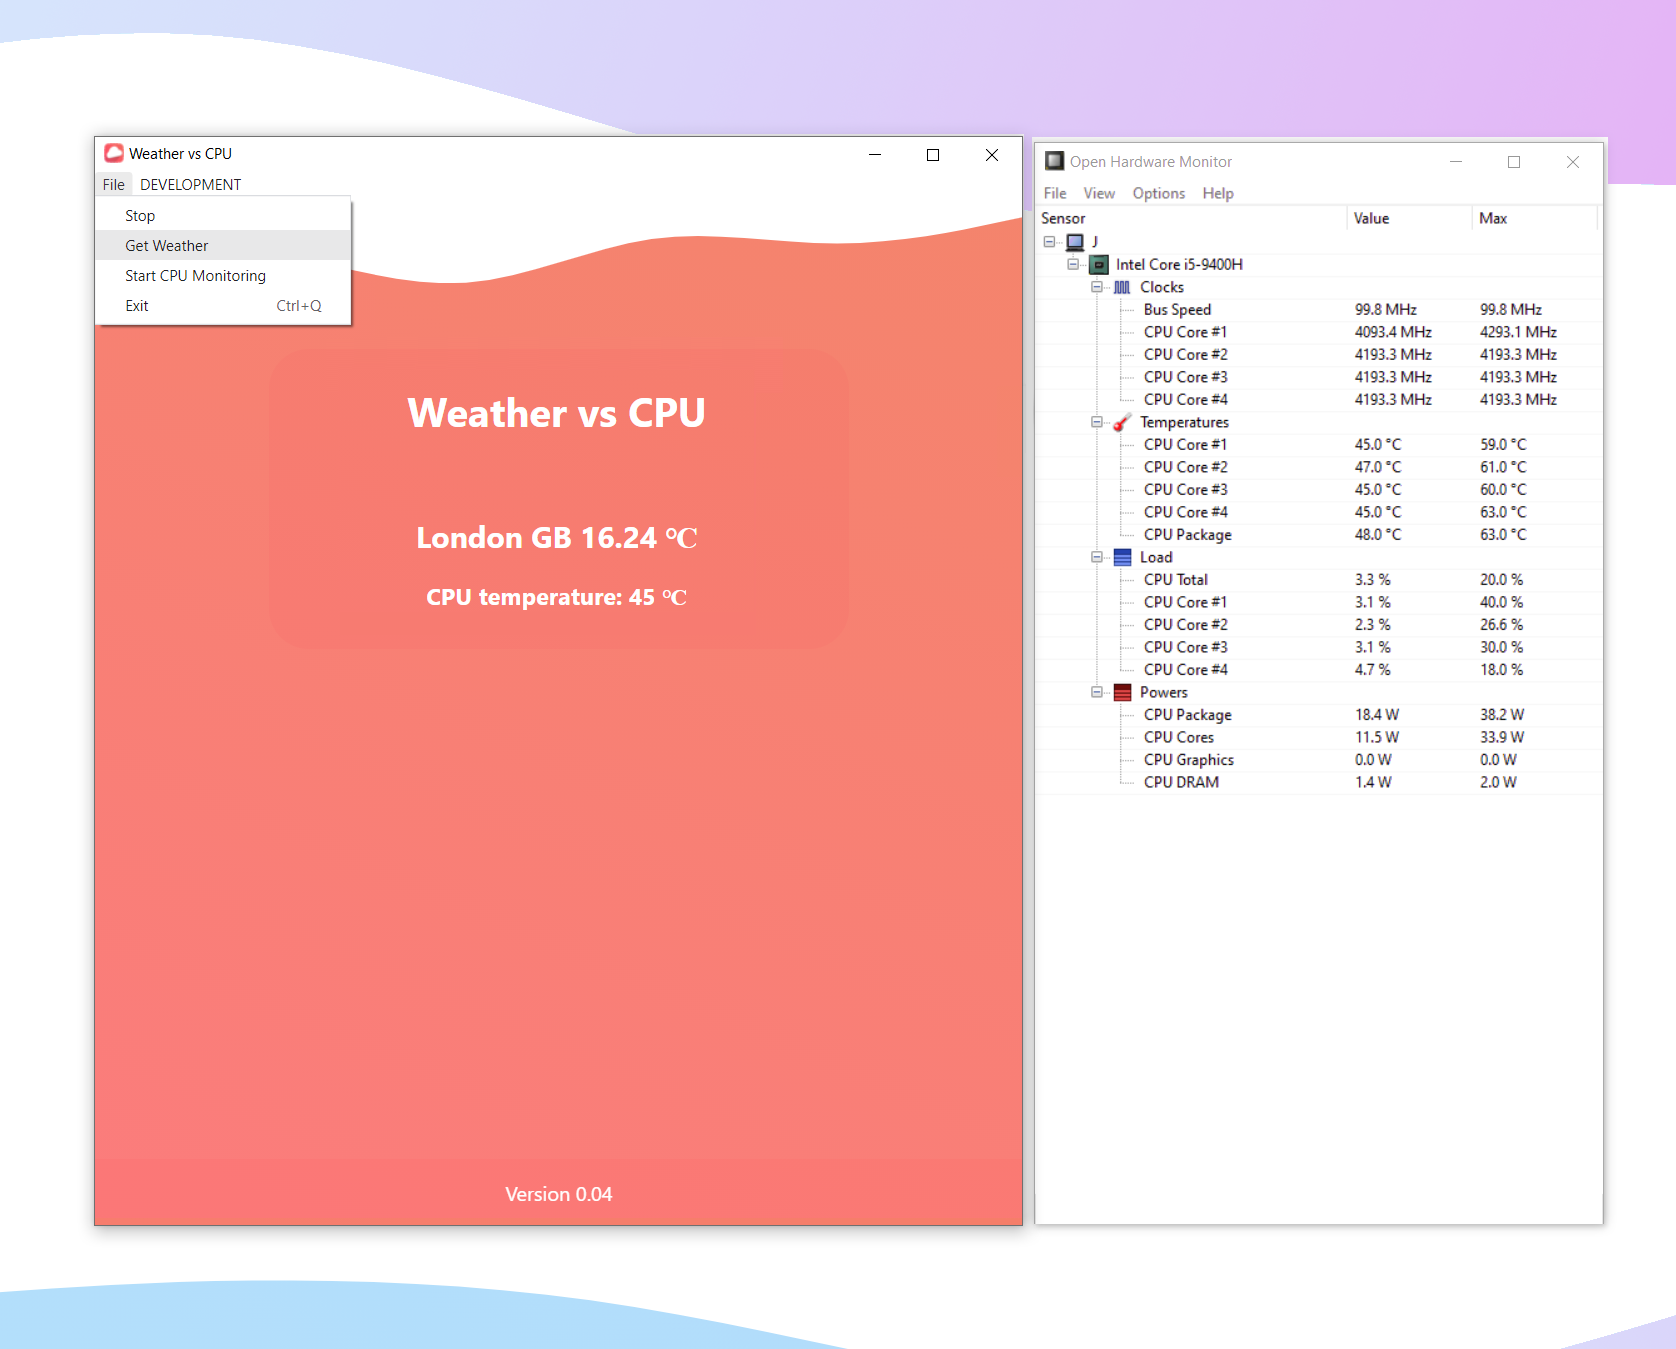
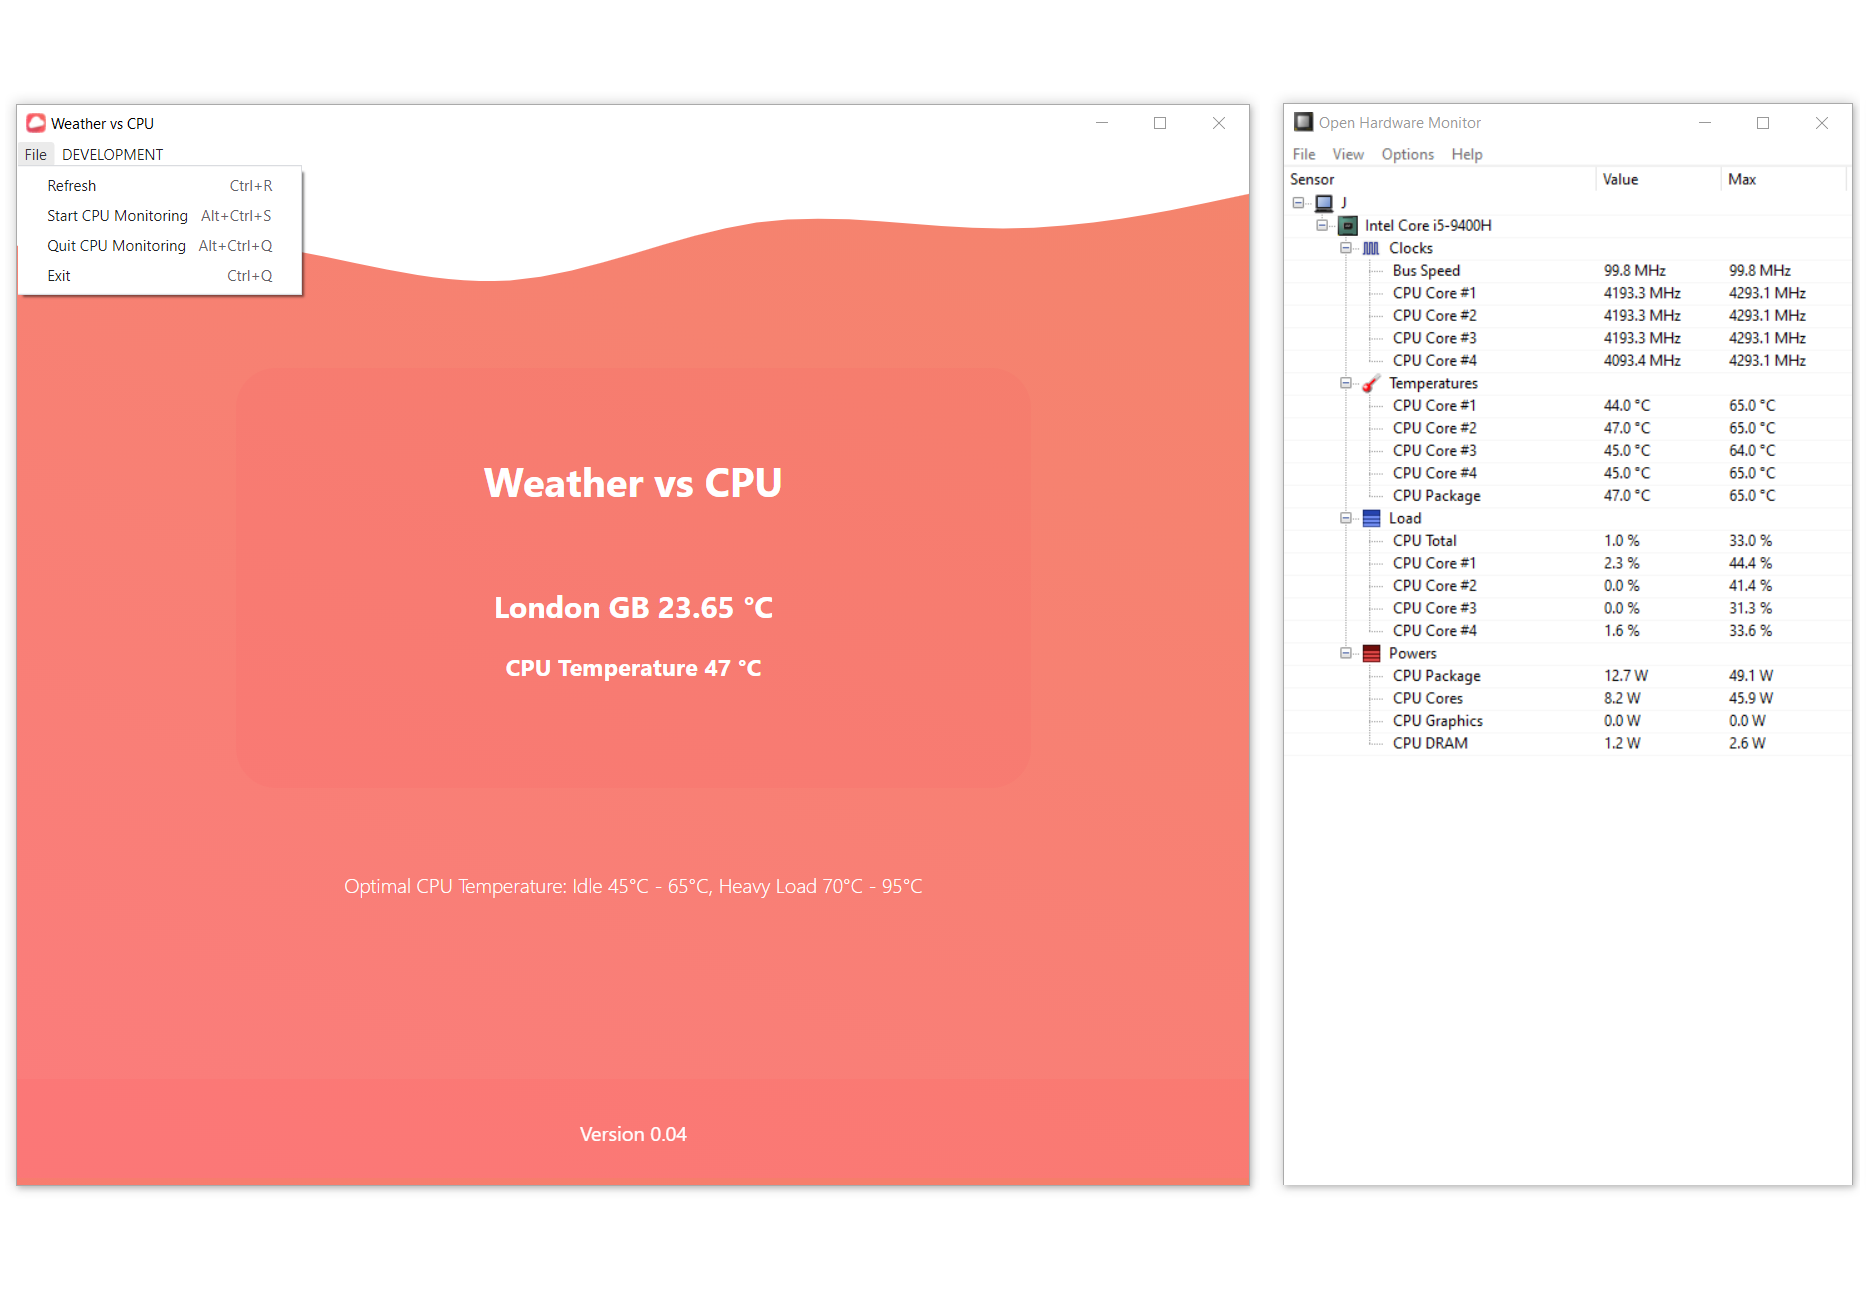
updated responsivenes

diff --git a/src/components/UI/Card.module.css b/src/components/UI/Card.module.css
@@ -1,35 +1,25 @@
 .Card {
-    display: grid;
-    grid-gap: 1px;
-    grid-template-columns: auto auto auto;
-    grid-template-rows: 3em 15em auto 10em 5em;
-    height: 100%;
-   
-
+  display: grid;
+  grid-gap: 1px;
+  grid-template-columns: auto auto auto;
+  grid-template-rows: 3em 15em auto 10em 5em;
+  height: 100%;
 }
-
 
 .CardShape {
-    grid-column-start: 2;
-    grid-row-start: 2;
-    background-color: rgba(248, 27, 56, 0.048);
-    height: 100%;
-    border-radius: 2em;
-    margin-top: 1em;
-    padding: 3em;
-    /* min-height: 500px; */
-
-}
-
-.Foot {
-    grid-column-start: 1;
-    grid-column-end: 4;
-    grid-row-start: 6;
-    
+  grid-column-start: 2;
+  grid-row-start: 2;
+  background-color: rgba(248, 27, 56, 0.048);
+  height: 100%;
+  border-radius: 2em;
+  margin-top: 1em;
+  padding: 3em;
+  /* min-height: 500px; */
+  min-width: 350px;
 }
 
 .Info {
-    grid-column-start: 2;
-    grid-row-start: 5;
- 
+  grid-column-start: 2;
+  grid-row-start: 5;
+  font-weight: 100;
 }

diff --git a/electron/main.js b/electron/main.js
@@ -94,7 +94,8 @@ function createWindow() {
   // Create the browser window.
   let mainWindow = new BrowserWindow({
     width: 1024,
-    height: 768,
+    //height to match OHM window size
+    height: 872,
     backgroundColor: 'white',
     webPreferences: {
       nodeIntegration: false,

diff --git a/src/components/UI/Card.js b/src/components/UI/Card.js
@@ -7,8 +7,8 @@ import classes from './Card.module.css';
 const Card = () => {
   //Change Your Town for accutrate temperature
 
-  // let myTown = 'London';
-  let myTown = 'Lowestoft';
+  let myTown = 'London';
+  // let myTown = 'Lowestoft';
 
 
   return (

diff --git a/src/components/Weather.js b/src/components/Weather.js
@@ -33,8 +33,7 @@ const Weather = (props) => {
   return (
     <div>
       <h2>
-        {`${location[0]} ${location[1]} ${temp}`}
-        <span> &#8451;</span>
+        {`${location[0]} ${location[1]} ${temp} °C`}
       </h2>
     </div>
   );

diff --git a/src/components/Footer.module.css b/src/components/Footer.module.css
@@ -9,12 +9,15 @@
   grid-column-start: 2;
   grid-row-start: 5;
   /* height: 2em; */
-
+  min-width: 450px;
 }
 
 .Foot p {
   padding: 1em;
-
 }
 
-
+@media only screen and (max-height: 762px) {
+  .Foot {
+    display: none;
+  }
+}

diff --git a/src/components/Cpu.js b/src/components/Cpu.js
@@ -33,7 +33,7 @@ const Cpu = () => {
   return (
     <>
       <h3>
-        CPU temperature: {temp} <span> &#8451;</span>
+        CPU Temperature {temp} °C
       </h3>
     </>
   );

diff --git a/src/components/UI/Waves.js b/src/components/UI/Waves.js
@@ -1,7 +1,6 @@
 import React from 'react';
 import wave from '../../assets/wave.svg';
 
-
 const Waves = () => {
   return (
     <>
